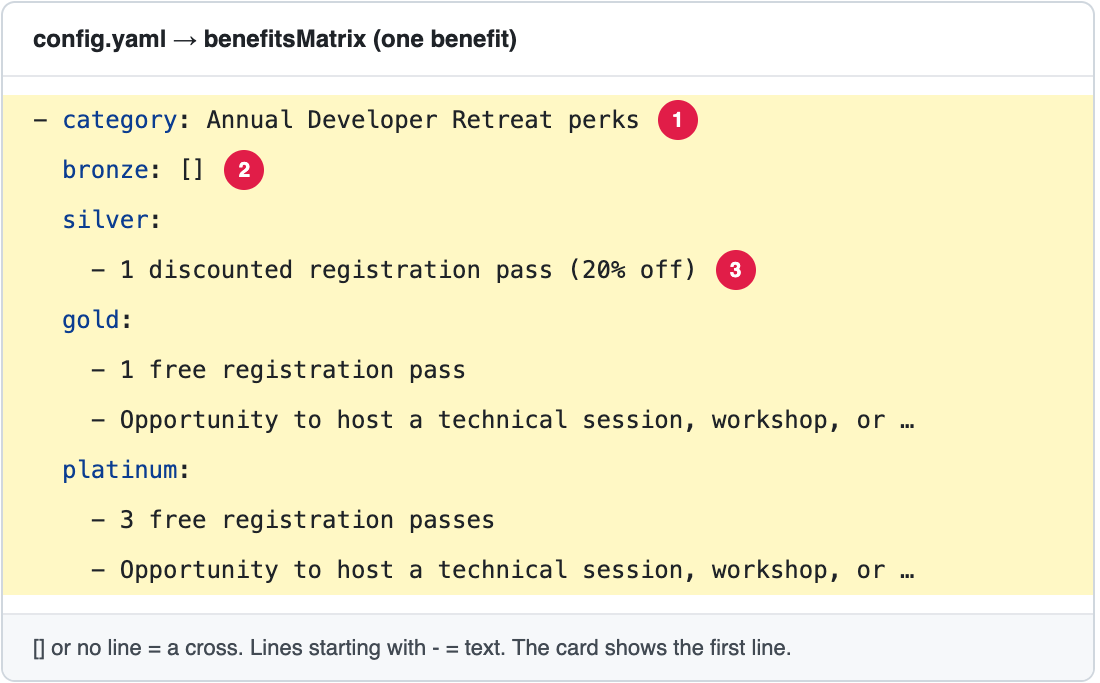
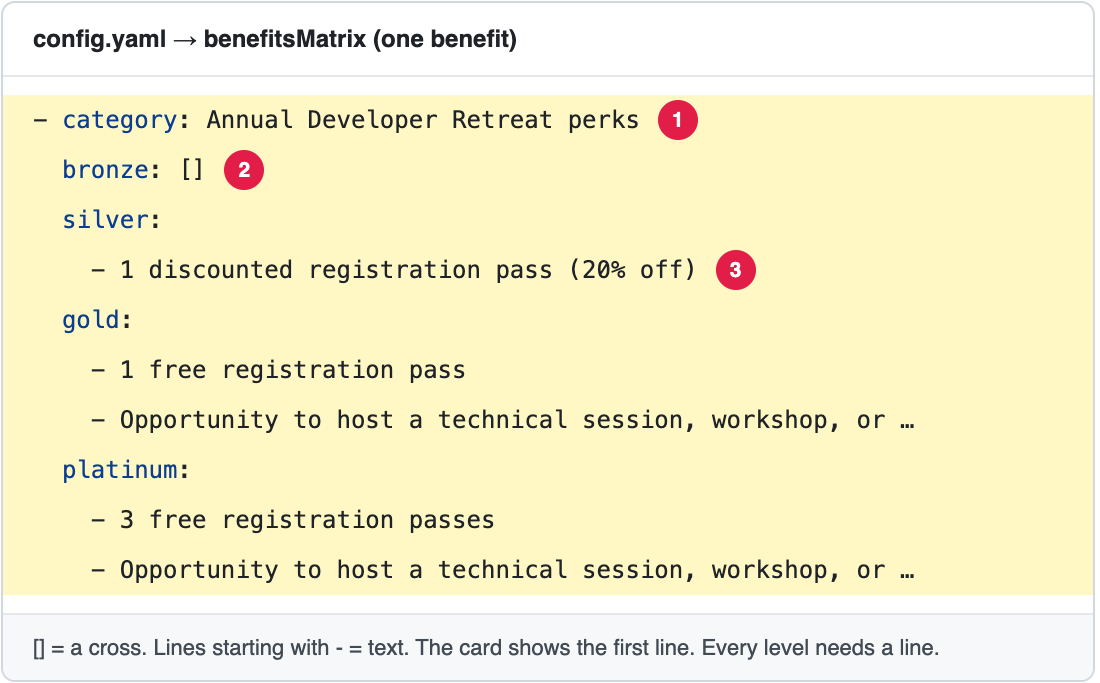
Docs: sponsorship benefits need a line for every level; screen sizes
A benefit row with no line for a level (not even []) makes the Hugo
build fail ("len $cell" on a missing value). The benefits guide said a
missing line shows a cross; fix it, its screenshot and the levels guide.

Add "Add a new level" and "What happens with more benefits or more
levels", measured with 5 levels and 9 benefits: cards are 4 per row on
large screens and 2 on laptops, the table keeps all levels side by side
down to laptop width and shows one level at a time with a picker on
tablets and phones.

Changed region(s): [[0.0309, 0.9224, 0.8655, 0.9839]]

diff --git a/docs/common-tasks/sponsorship-program/update-benefits.md b/docs/common-tasks/sponsorship-program/update-benefits.md
@@ -40,11 +40,13 @@ What you write for a level decides what its cell shows:
 
 | You write | The table shows | The level card shows |
 |-----------|-----------------|----------------------|
-| `bronze: []` (or no `bronze:` line at all) | a **cross**: not included | nothing |
+| `bronze: []` | a **cross**: not included | nothing |
 | `bronze: ["✓"]` | a **tick**: included | the **name** of the benefit (the `category`) |
 | one or more lines starting with `- ` under `bronze:` | each line as **text** | the **first line** only |
 
 The words `bronze`, `silver`, `gold` and `platinum` must be **exactly** the `id` of each level (search for `levels:`). Small letters, no spaces.
+
+> **Every row needs a line for every level.** If a level has no line in a row (not even `[]`), the website **fails to build**. To say "not included", write `[]`.
 
 ## Change a benefit
 
@@ -54,7 +56,7 @@ The words `bronze`, `silver`, `gold` and `platinum` must be **exactly** the `id`
    - **The name of the benefit:** the words after `category:`.
    - **The text for one level:** the lines under that level. Keep the `- ` at the start of each line, and the same spaces as the lines around it.
    - **Give a level the benefit:** replace `[]` with `["✓"]`, or with text lines.
-   - **Take the benefit away from a level:** replace what is after the level's name with `[]`, and delete its text lines.
+   - **Take the benefit away from a level:** replace what is after the level's name with `[]`, and delete its text lines. Do not delete the level's line itself.
 4. Save and send for review: [How to make a change, steps 3 to 6](../../getting-started/edit-via-github.md#step-3--save-commit-changes).
 5. Open the **Deploy Preview**, go to **/sponsor-us/**, and check both the cards and the table. Click each level to see its column.
 
@@ -70,6 +72,28 @@ The words `bronze`, `silver`, `gold` and `platinum` must be **exactly** the `id`
 ## Remove a benefit
 
 Delete its whole row, from `- category:` to the line before the next `- category:`. Check that the cards still show the 3 benefits you want.
+
+## Add a new level (a new column)
+
+1. Add the level under `levels:` (see [Change the sponsorship levels](update-levels.md)): copy a whole level, give it a new `id` (small letters, for example `diamond`), a name, a price, a motto and a text.
+2. In `benefitsMatrix`, add a line for the new `id` to **every** row, for example `diamond: []`, `diamond: ["✓"]` or text lines. A row without it makes the build fail.
+3. Save, send for review, and check the Deploy Preview at different screen sizes (see below).
+
+## What happens with more benefits or more levels
+
+Tested in October 2026 with 5 levels and 9 benefits:
+
+| Screen | Level cards | Benefit comparison table |
+|--------|-------------|--------------------------|
+| **Large** (about 1440 px wide) | **4 per row**. A 5th level goes alone on a second row, on the left. | All levels side by side. Each column is about 200 px wide, and the page does not scroll sideways. |
+| **Laptop** (about 1100 px) | **2 per row**. With an odd number of levels, the last one is alone. | All levels side by side, narrower (about 150 px each): long texts wrap onto more lines. |
+| **Tablet and phone** (tested at 768 px and 375 px) | **1 per row**, one under the other. | **One level at a time**, chosen in a "Sponsorship level" list above the table. Any number of levels works. |
+
+So:
+
+- **More benefits (rows)** always work: the table only gets longer. Keep the names short, because on a phone the name column is narrow. Remember that each card shows only the first 3 benefits of its level.
+- **More levels (columns)** work, but **4 levels look best** on a large screen. With 5 or more, the cards no longer fill one row, and each table column gets narrower. With 6 or more levels, ask the web team to check the layout first ([Who to ask](../../workflow/who-to-ask.md)).
+- You can prepare a new level with `showInProgram: false`: it stays hidden until you change it to `true`.
 
 ## Other parts of the benefits
 
@@ -89,7 +113,8 @@ The sentence under the table heading ("Compare acknowledgment and engagement ben
 | What went wrong | How to fix it |
 |-----------------|---------------|
 | The preview says **Failed** | The spaces at the start of a line are wrong, or a `-` is missing. Compare with the rows around it. See [Spaces matter](../../getting-started/edit-via-github.md#spaces-matter-in-configyaml). |
-| A level shows a cross where it should have the benefit | Its name is spelled differently from the level's `id` (for example `Gold` instead of `gold`), or its lines are not indented under it. |
+| The preview says **Failed** after adding a level or a benefit | A row has no line for one of the levels. Every row needs one line per level `id`, even if it is only `[]`. |
+| A level shows a cross where it should have the benefit | Its lines are not indented under it, or the text after it is `[]`. |
 | The tick shows as text "✓" | Write it exactly as `["✓"]`, with the square brackets and the quotes. |
 | A benefit is missing on a card | The card shows only the first 3 benefits of that level. Move the row higher in the list. |
 

diff --git a/docs/common-tasks/sponsorship-program/update-levels.md b/docs/common-tasks/sponsorship-program/update-levels.md
@@ -64,7 +64,7 @@ Each row of the table is one `category`, with one entry per level:
 | `["✓"]` | a tick: included |
 | lines starting with `- ` | each line as text |
 
-To **add a row**, copy a whole `- category:` block and change it. To **remove a row**, delete its whole block.
+To **add a row**, copy a whole `- category:` block and change it. To **remove a row**, delete its whole block. Every row needs one line per level, even if it is only `[]`: a missing line makes the build fail. **If you add a level**, add its line to every row.
 
 The full guide for the benefits, with pictures: [Change the benefits of the sponsorship levels](update-benefits.md).
 
